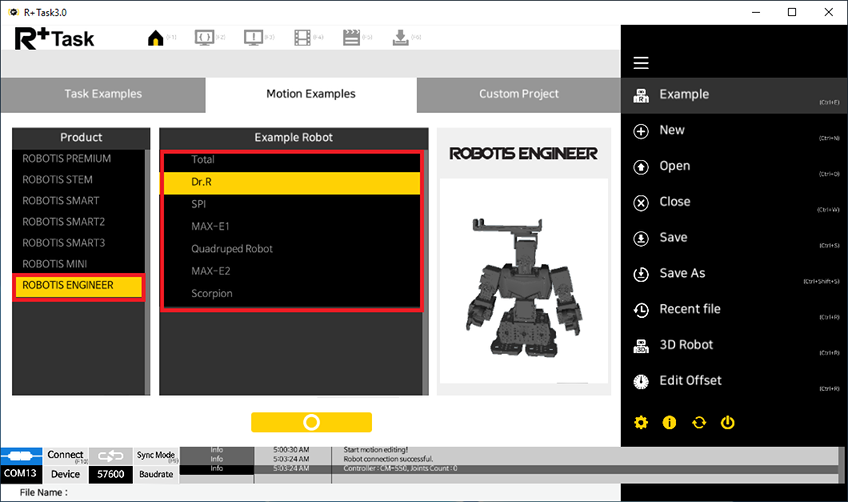
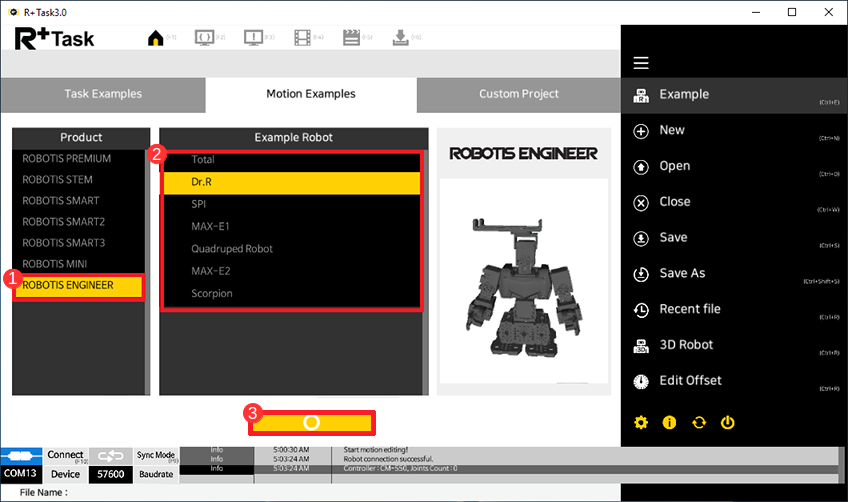
R+Task 3.0 Image Updates

Changed region(s): [[0.2759, 0.8068, 0.4599, 0.8665], [0.1533, 0.2689, 0.2146, 0.3287], [0.0, 0.5378, 0.0307, 0.5976]]

diff --git a/docs/en/software/rplustask3/motion_programming.md b/docs/en/software/rplustask3/motion_programming.md
@@ -79,10 +79,20 @@ The image below is an example showing the same motion data opened on different 3
 
 Motion Unit is the link of poses placed on the timeline, to create a motion. The links between the poses are interpolated, like a fade in/out function.
 
-1. Select the Motion Unit tab, and click on the Motion Unit list on the toolbar.  
-2. Click the “New Motion Unit” button.
-3. Name the new Motion Unit and click the “Apply” button.
-4. Select the newly created Motion Unit and click the “Apply” button.  
+1. Select the Motion Examples tab.  
+  ![](/assets/images/sw/rplus_task3/motion_ex_01.png)
+
+2. Select the desired product from the Product tab.   
+  ![](/assets/images/sw/rplus_task3/motion_ex_02.png)
+
+3. Click the Motion Unit list.  
+  ![](/assets/images/sw/rplus_task3/motion_ex_03.png)
+
+4. Name the new Motion Unit and click the “Apply” button.  
+  ![](/assets/images/sw/rplus_task3/motion_ex_04.png)
+  
+5. Select the newly created Motion Unit and click the “Apply” button.  
+  ![](/assets/images/sw/rplus_task3/motion_ex_05.png)
 
 ## [Edit Motion Unit](#edit-motion-unit)
 
